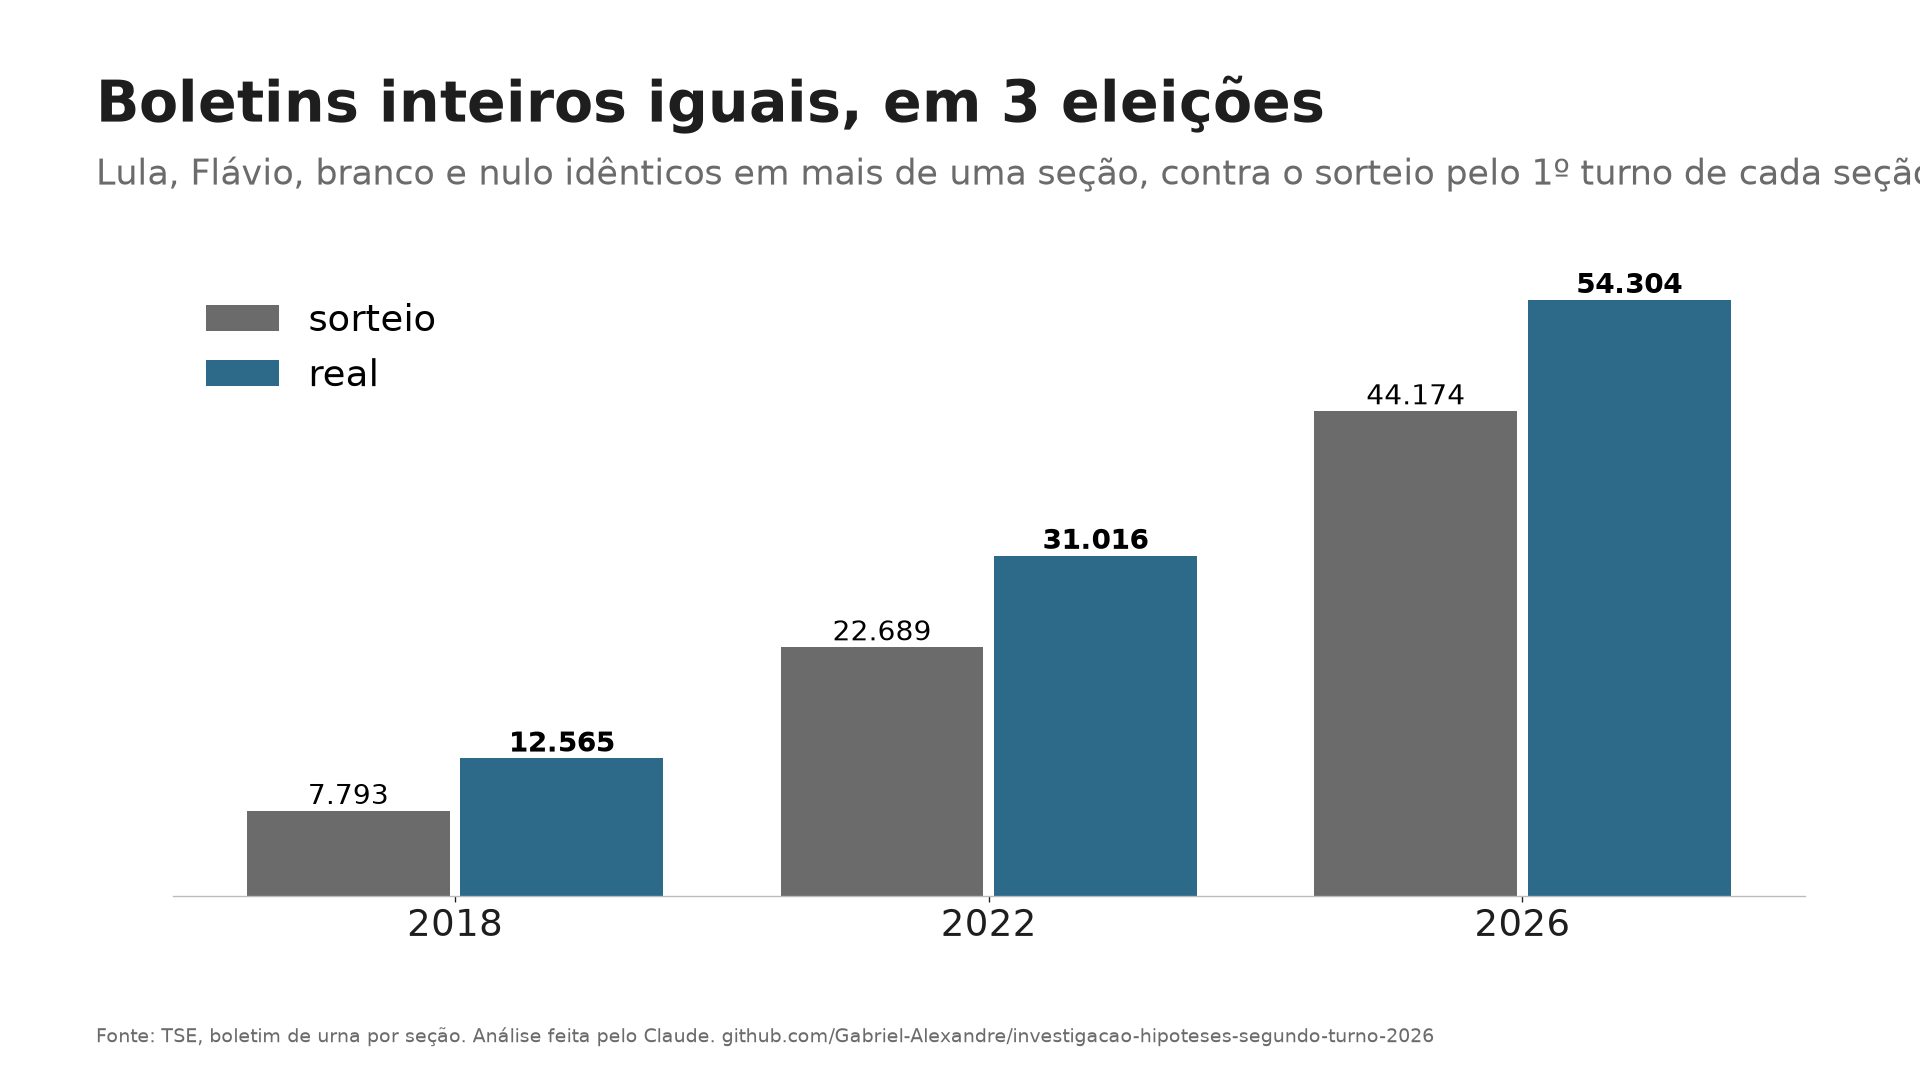
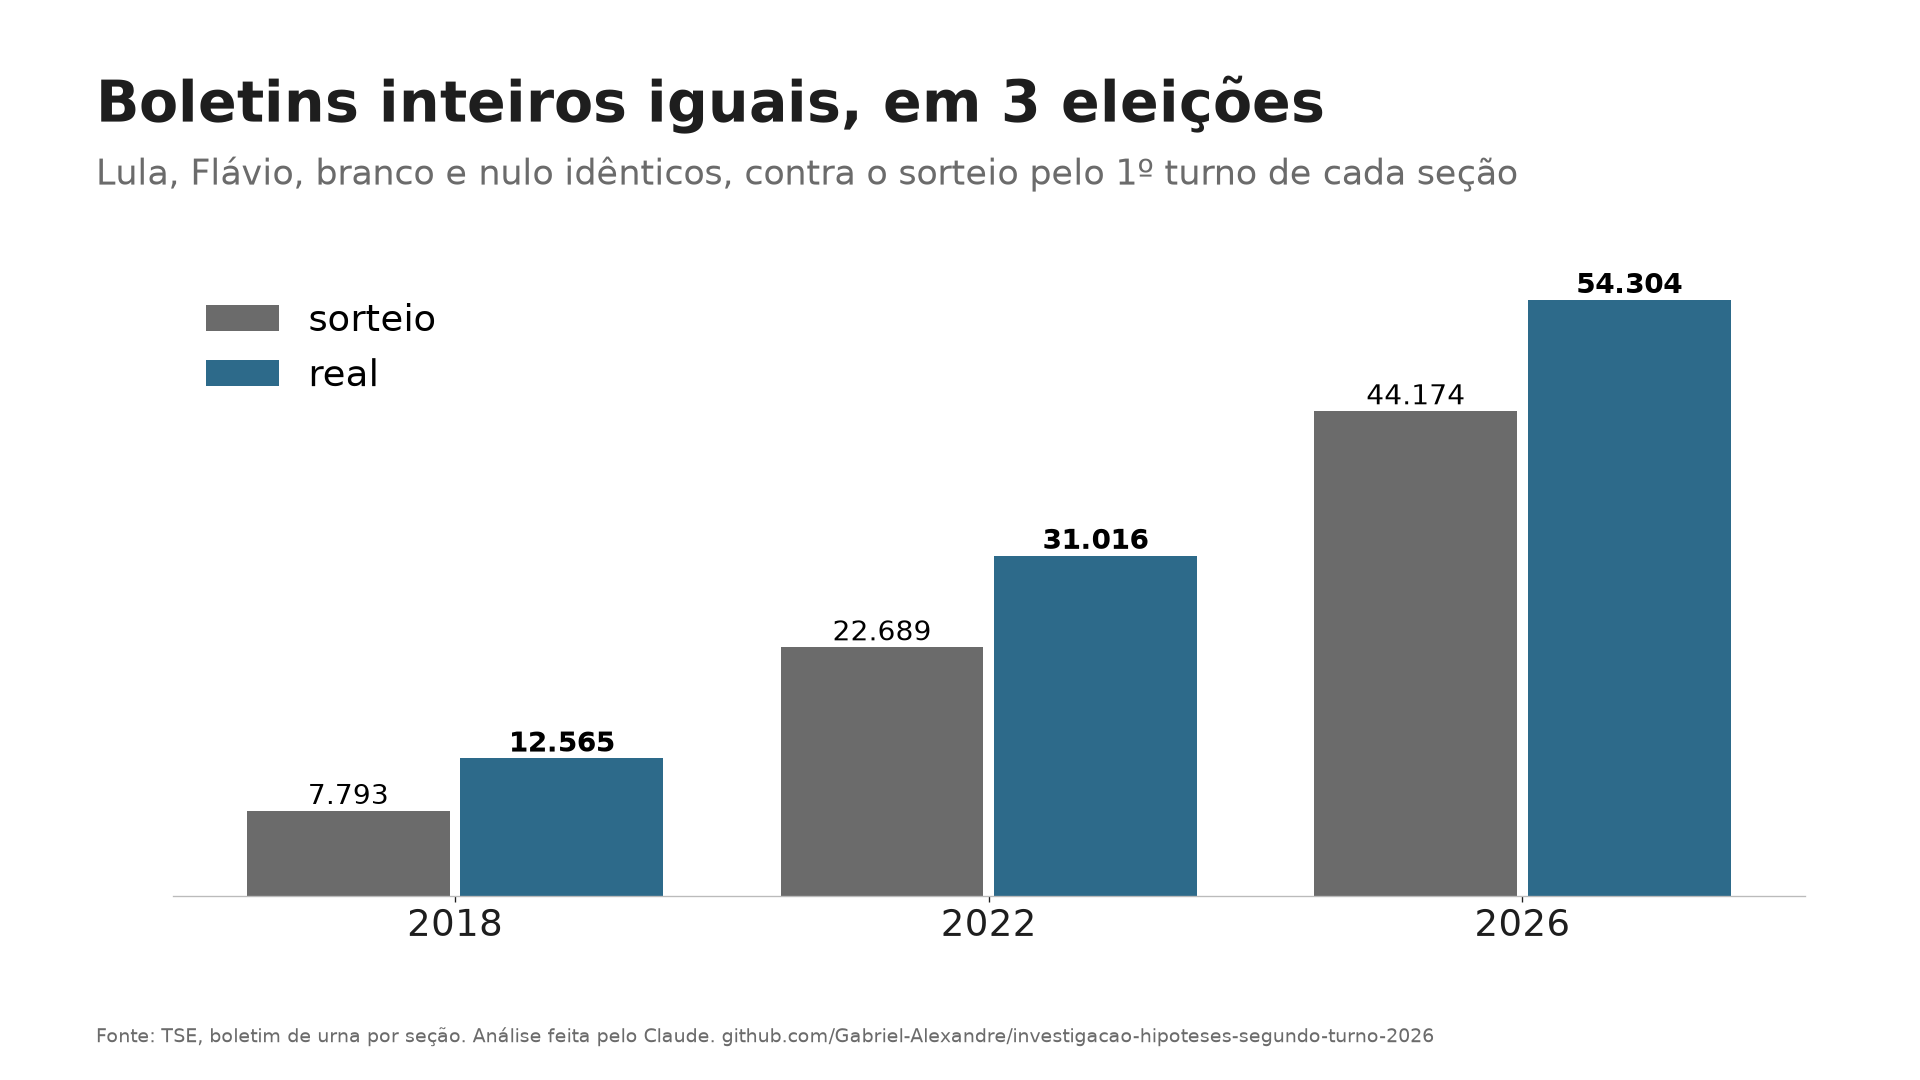
g16: subtitulo mais curto, nao corta na borda

Changed region(s): [[0.375, 0.1528, 1.0, 0.1833]]

diff --git a/ferramentas/graficos.py b/ferramentas/graficos.py
@@ -346,7 +346,7 @@ def g15_zoom_tres_eleicoes():
 
 def g16_boletins_iguais():
     r3 = json.loads((RAIZ / "resultados/RODADA3.json").read_text(encoding="utf-8"))["identicas"]
-    f = fig("Boletins inteiros iguais, em 3 eleições", "Lula, Flávio, branco e nulo idênticos em mais de uma seção, contra o sorteio pelo 1º turno de cada seção")
+    f = fig("Boletins inteiros iguais, em 3 eleições", "Lula, Flávio, branco e nulo idênticos, contra o sorteio pelo 1º turno de cada seção")
     ax = f.add_axes([0.09, 0.17, 0.85, 0.58])
     anos = ["2018", "2022", "2026"]
     x = range(3)
